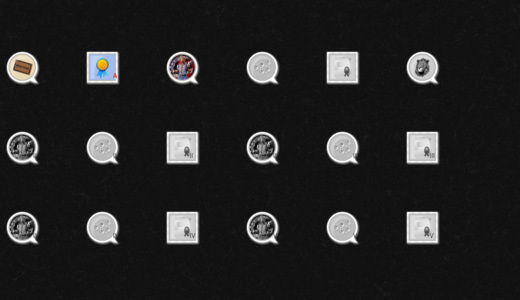
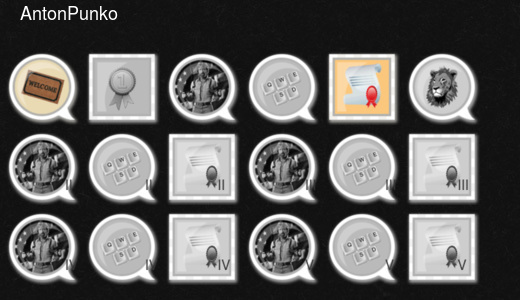
before course refactoring 1

diff --git a/app/models/achievement.rb b/app/models/achievement.rb
@@ -18,6 +18,7 @@ class Achievement < ActiveRecord::Base
         x = 5
       end
     end
+    background = draw_stat(background, user)
     background.write "#{Rails.root}/app/assets/images/output.jpg"
   end
 
@@ -38,7 +39,7 @@ class Achievement < ActiveRecord::Base
       image = Achievement.handle_image(image, record)
     else
       image.colorspace "Gray"
-      image.resize "35x35"
+      image.resize "75x75"
     end
     image
   end
@@ -48,8 +49,17 @@ class Achievement < ActiveRecord::Base
     if record.amount > 1
       handle_image = Achievement.draw_text(image, record.amount)
     end
-    handle_image.resize "35x35"
+    handle_image.resize "75x75"
     handle_image
+  end
+
+  def self.draw_stat(image, user)
+    image.combine_options do |c|
+      c.pointsize '18'
+      c.draw "text 20,20 "+"#{user.name}"
+      c.fill 'white'
+    end
+    image
   end
 
   def self.draw_text(image, text)
@@ -69,4 +79,46 @@ class Achievement < ActiveRecord::Base
     result
   end
 
+  def self.check_task_achievements(user)
+    attempts = user.answer_attempts
+    last_attempt = attempts.last
+    i = 0
+    attempts.each { |attempt| i += 1 if attempt.result }
+    case
+    when i == 5
+      AchievingRecord.find_or_create_by(user_id: user.id, achievement_id: 3, amount: 1)
+    when i == 10
+      AchievingRecord.find_or_create_by(user_id: user.id, achievement_id: 7, amount: 1)
+    when i == 20
+      AchievingRecord.find_or_create_by(user_id: user.id, achievement_id: 10, amount: 1)
+    when i == 50
+      AchievingRecord.find_or_create_by(user_id: user.id, achievement_id: 13, amount: 1)
+    when i == 100
+      AchievingRecord.find_or_create_by(user_id: user.id, achievement_id: 16, amount: 1)
+    end
+    if last_attempt.result
+      attempts = AnswerAttempt.where(task_id: last_attempt.task_id, result: true)
+      if attempts.count == 1
+        record = AchievingRecord.find_or_create_by(user_id: user.id, achievement_id: 2)
+        record.amount += 1
+        record.save
+      end
+    end
+  end
+
+  def self.check_new_comments_achievements(user)
+    comments_count = user.comments.count
+    case
+    when comments_count == 5
+      AchievingRecord.find_or_create_by(user_id: user.id, achievement_id: 4, amount: 1)
+    when comments_count == 10
+      AchievingRecord.find_or_create_by(user_id: user.id, achievement_id: 8, amount: 1)
+    when comments_count == 20
+      AchievingRecord.find_or_create_by(user_id: user.id, achievement_id: 11, amount: 1)
+    when comments_count == 50
+      AchievingRecord.find_or_create_by(user_id: user.id, achievement_id: 14, amount: 1)
+    when comments_count == 100
+      AchievingRecord.find_or_create_by(user_id: user.id, achievement_id: 17, amount: 1)
+    end
+  end
 end

diff --git a/app/controllers/answer_attempts_controller.rb b/app/controllers/answer_attempts_controller.rb
@@ -1,14 +1,9 @@
 class AnswerAttemptsController < ApplicationController
-  include TasksHelper
   include AnswerAttemptsHelper
   
   before_action :authenticate_user!, only: [:new, :create]
   after_action :check_next_achievements, only: :create
   
-  def index
-    @all = AnswerAttempt.all
-  end
-
   def new
     @attempt = AnswerAttempt.new
     @task_id = params[:id]
@@ -25,48 +20,15 @@ class AnswerAttemptsController < ApplicationController
   end
 
   private
+  def attempt_params
+    attempt_params = params.require(:answer_attempt).permit(:value)
+    attempt_params[:user_id] = current_user.id
+    attempt_params[:task_id] = current_task_id
+    attempt_params[:result] = Task.check_answer(attempt_params[:task_id], attempt_params[:value])
+    attempt_params
+  end
 
-    def attempt_params
-      attempt_params = params.require(:answer_attempt).permit(:value)
-      attempt_params[:user_id] = current_user.id
-      attempt_params[:task_id] = current_task_id
-      attempt_params[:result] = Task.check_answer(attempt_params[:task_id], attempt_params[:value])
-      attempt_params
-    end
-
-    def check_next_achievements
-      attempts = current_user.answer_attempts
-      last_attempt = attempts.last
-      i = 0
-      attempts.each do |attempt|
-        if attempt.result == true
-          i += 1 
-        end
-      end
-      if i == 5
-        AchievingRecord.find_or_create_by(user_id: current_user.id, achievement_id: 3, amount: 1)
-      end
-      if i == 10
-        AchievingRecord.find_or_create_by(user_id: current_user.id, achievement_id: 7, amount: 1)
-      end
-      if i == 20
-        AchievingRecord.find_or_create_by(user_id: current_user.id, achievement_id: 10, amount: 1)
-      end
-      if i == 50
-        AchievingRecord.find_or_create_by(user_id: current_user.id, achievement_id: 13, amount: 1)
-      end
-      if i == 100
-        AchievingRecord.find_or_create_by(user_id: current_user.id, achievement_id: 16, amount: 1)
-      end
-      if last_attempt.result == true
-        attempts = AnswerAttempt.where(task_id: last_attempt.task_id, result: true)
-        attempts.each do |x|
-        end
-        if attempts.count == 1
-          record = AchievingRecord.find_or_create_by(user_id: current_user.id, achievement_id: 2)
-          record.amount += 1
-          record.save
-        end
-      end
-    end
+  def check_next_achievements
+    Achievement.check_task_achievements(current_user)
+  end
 end

diff --git a/app/controllers/comments_controller.rb b/app/controllers/comments_controller.rb
@@ -1,7 +1,6 @@
 class CommentsController < ApplicationController
-  before_action :authenticate_user!
   include TasksHelper
-
+  before_action :authenticate_user!
   after_action :check_next_achievements, only: :create
 
   def create
@@ -24,29 +23,14 @@ class CommentsController < ApplicationController
   end
 
   private
+  def check_next_achievements
+    Achievement.check_new_comments_achievements(current_user)
+  end
 
-    def check_next_achievements
-      if current_user.comments.count == 5
-        AchievingRecord.find_or_create_by(user_id: current_user.id, achievement_id: 4, amount: 1)
-      end
-      if current_user.comments.count == 10
-        AchievingRecord.find_or_create_by(user_id: current_user.id, achievement_id: 8, amount: 1)
-      end
-      if current_user.comments.count == 20
-        AchievingRecord.find_or_create_by(user_id: current_user.id, achievement_id: 11, amount: 1)
-      end
-      if current_user.comments.count == 50
-        AchievingRecord.find_or_create_by(user_id: current_user.id, achievement_id: 14, amount: 1)
-      end
-      if current_user.comments.count == 100
-        AchievingRecord.find_or_create_by(user_id: current_user.id, achievement_id: 17, amount: 1)
-      end
-    end
-
-    def comment_params
-      params_hash = params.require(:comment).permit(:message)
-      params_hash[:task_id] = current_task_id
-      params_hash[:user_id] = current_user.id
-      params_hash
-    end
+  def comment_params
+    params_hash = params.require(:comment).permit(:message)
+    params_hash[:task_id] = current_task_id
+    params_hash[:user_id] = current_user.id
+    params_hash
+  end
 end

diff --git a/app/controllers/answers_controller.rb b/app/controllers/answers_controller.rb
@@ -1,9 +1,5 @@
 class AnswersController < ApplicationController
   before_action :authenticate_user!
-  #before_action :my_answer?, only: [:edit, :update, :destroy]
-
-  def index
-  end
 
   def edit
     @answer = Answer.find(params[:id])
@@ -27,9 +23,6 @@ class AnswersController < ApplicationController
     @answer = Answer.new
   end
 
-  def show
-  end
-
   def create
     @answer = Answer.new(answer_params)
     @task = Task.find(params[:answer][:task_id])
@@ -51,9 +44,8 @@ class AnswersController < ApplicationController
   end
 
   private
-
-    def answer_params
-      params.require(:answer).permit(:value, :task_id)
-    end
+  def answer_params
+    params.require(:answer).permit(:value, :task_id)
+  end
 
 end

diff --git a/config/routes.rb b/config/routes.rb
@@ -3,11 +3,11 @@ Rails.application.routes.draw do
   devise_for :users, :controllers => { :omniauth_callbacks => "users/omniauth_callbacks" }
   root to: "application#home"
   resources :tasks 
-  resources :answers
+  resources :answers, except: [:index, :show]
   resources :ratings, only: :create
   resources :comments, only: [:create, :destroy]
   resources :users, only: [:index, :show, :update]
-  resources :answer_attempts, only: [:index, :new, :create]
+  resources :answer_attempts, only: [:new, :create]
   get '/search', to: 'application#search'
   get '/download_image', to: 'application#download_image', as: :download_image
   get '/change_style', to: 'users#change_style', as: :change_style

diff --git a/app/models/rating.rb b/app/models/rating.rb
@@ -7,12 +7,8 @@ class Rating < ActiveRecord::Base
     result = 0.0;
     if ratings
       sum = 0
-      ratings.each do |rate|
-        sum += rate.score
-      end
-      if ratings.length > 0
-        result = (sum / ratings.length).round(2)
-      end
+      ratings.each { |rate| sum += rate.score }
+      result = (sum / ratings.length).round(2) if ratings.length > 0
     end
     result
   end
